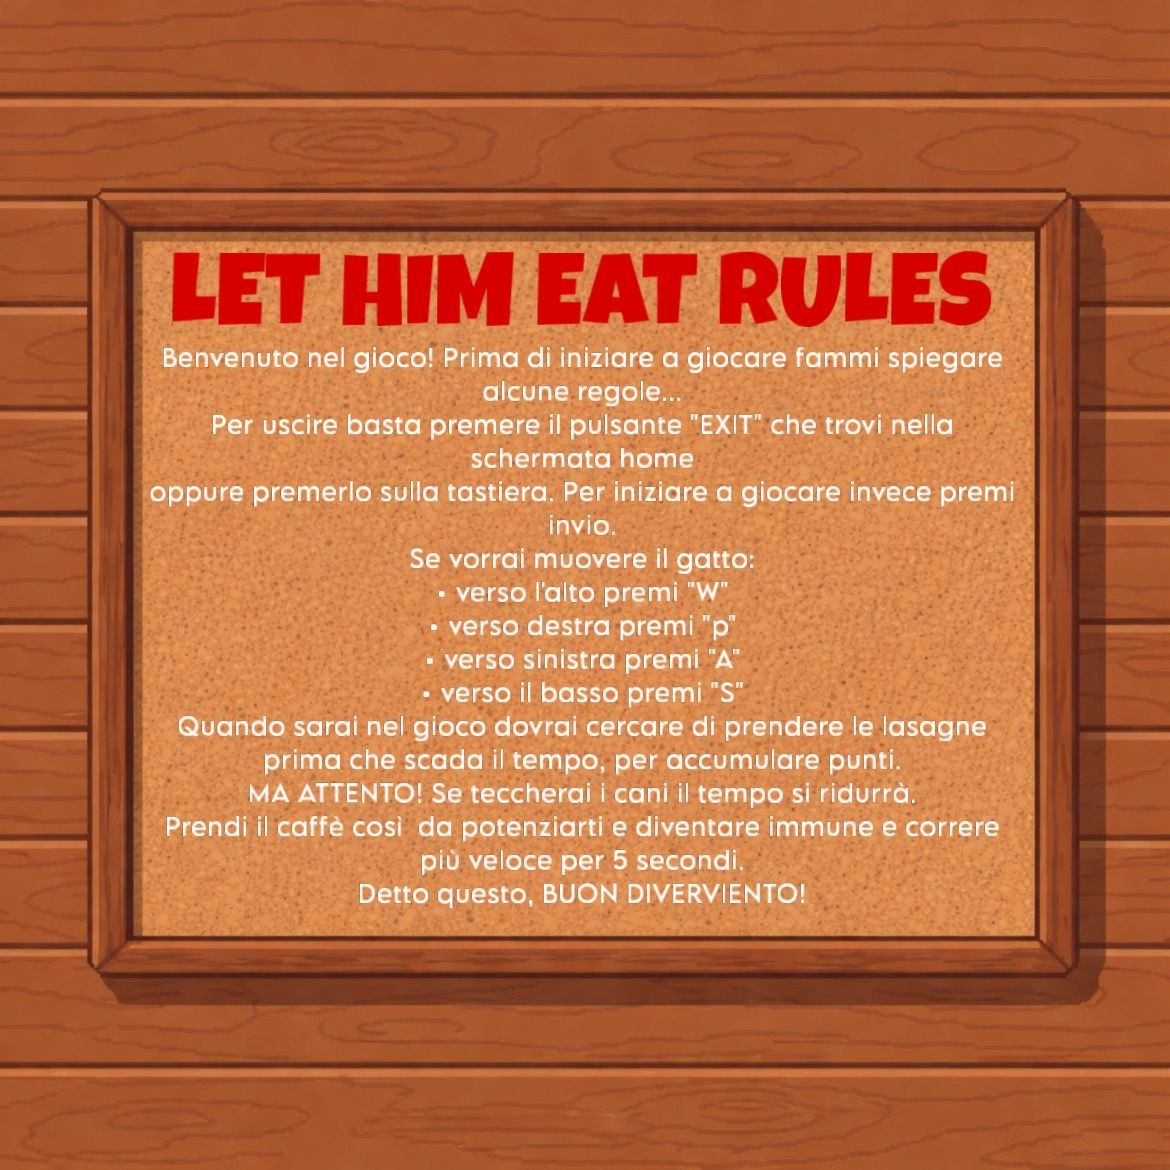
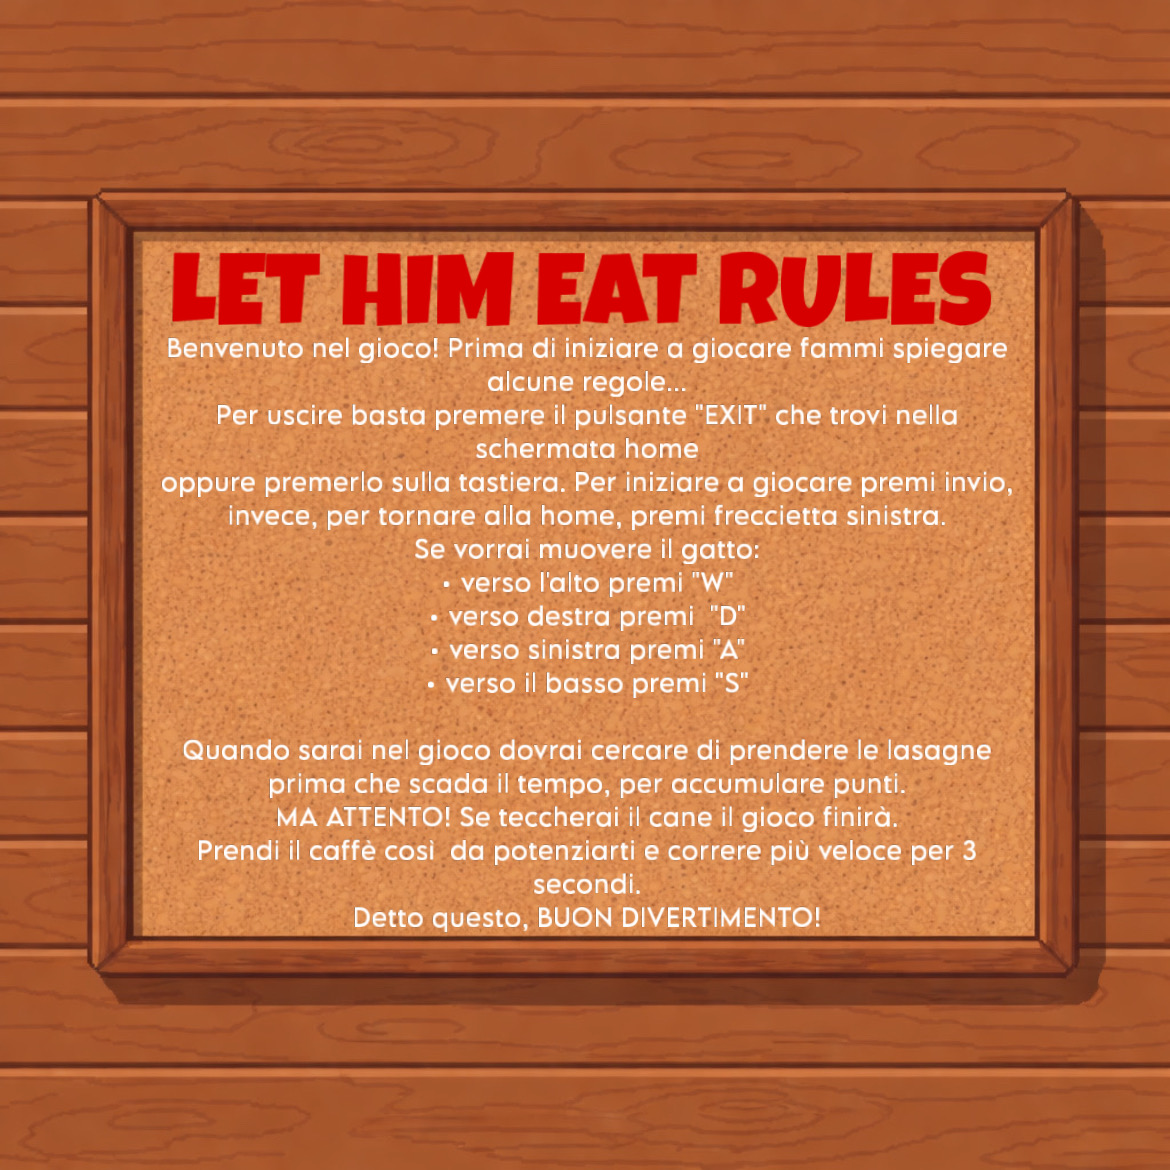
cambiato regole
ho cambiato le regole e le ho adattate allo schermo

Changed region(s): [[0.1231, 0.2769, 0.8615, 0.8]]

diff --git a/src/let_him_eat/__init__ .py b/src/let_him_eat/__init__ .py
@@ -68,7 +68,7 @@ def main() -> None:
     imgCaffè = pygame.transform.scale(imgCaffè, (30, 30))
     
     imgRegole = pygame.image.load("regole.jpeg")
-    imgRegole = pygame.transform.scale(imgRegole, (SCREEN_WIDTH, SCREEN_HEIGHT))
+    imgRegole = pygame.transform.scale(imgRegole, (1450, 1000))
     
     # Immagine Garfiel (ovvero il personaggio da muovere)
     imgGarfield = pygame.image.load("garfield_senza_sfondo.png")
